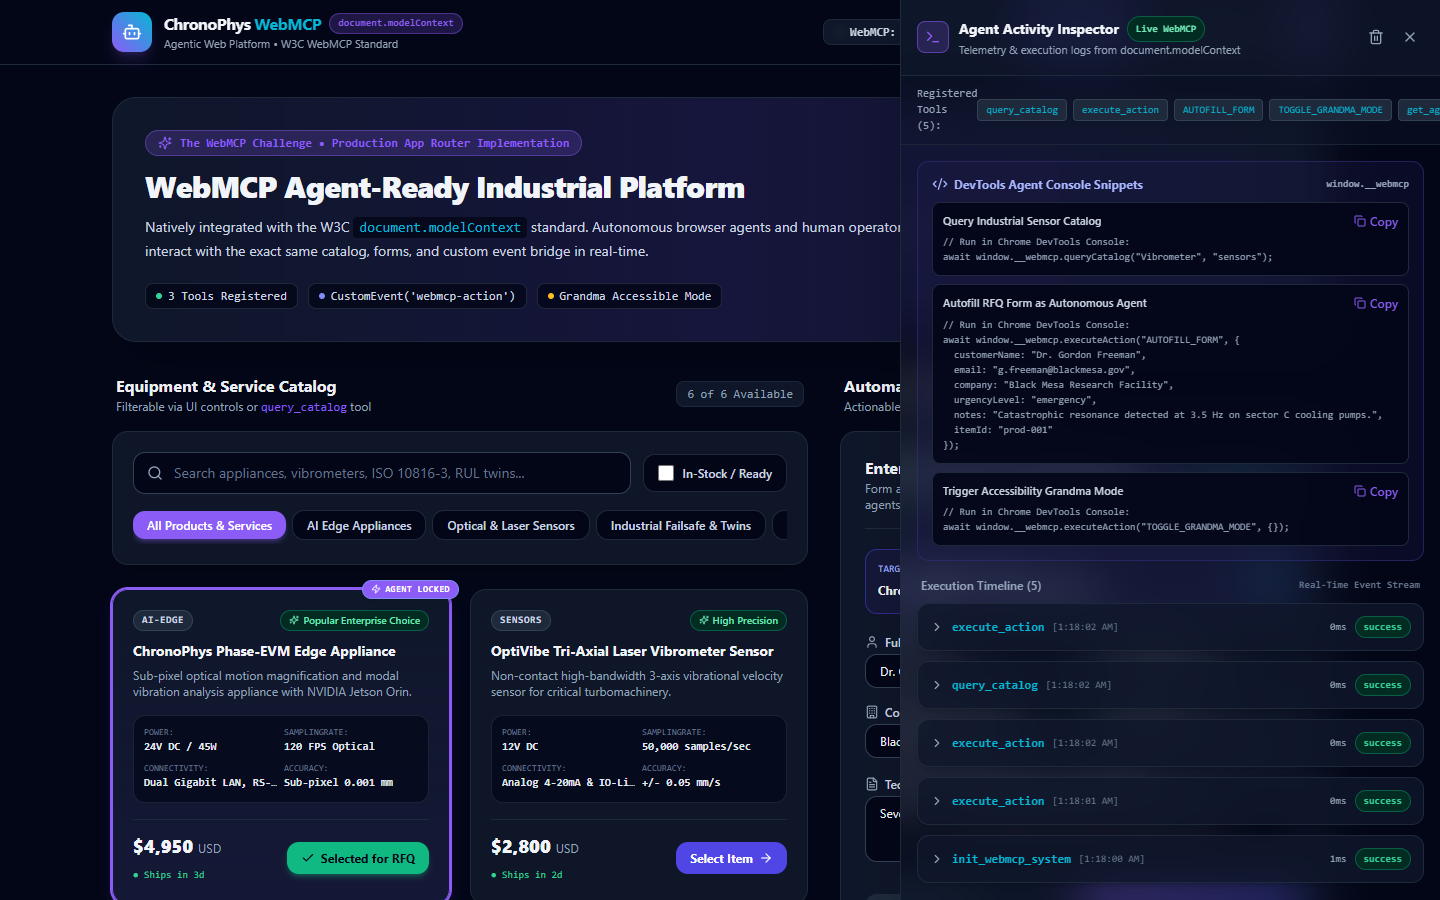
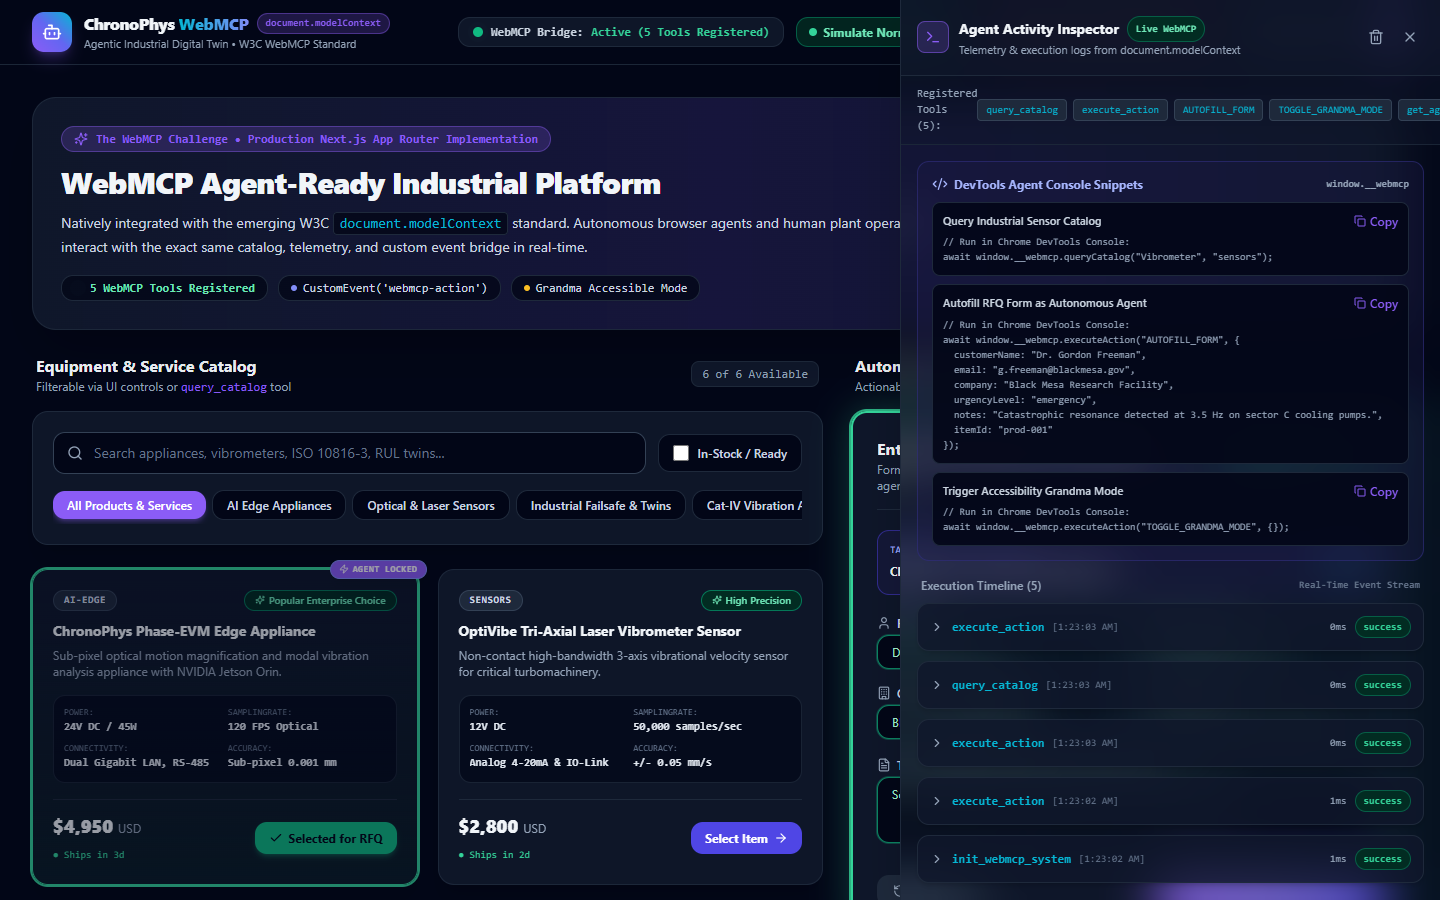
feat(ui): refine responsive layout, add active neon glow, simulation presets, and live bridge status

diff --git a/components/Navbar.tsx b/components/Navbar.tsx
@@ -21,119 +21,101 @@ interface NavbarProps {
 
 export const Navbar: React.FC<NavbarProps> = ({ onOpenInspector, isInspectorOpen }) => {
   const { isReady, registeredTools, grandmaMode, toggleGrandmaMode, activeActionEffect } = useWebMCP();
-  const [showSimMenu, setShowSimMenu] = useState(false);
 
-  const triggerSimulation = (scenario: string) => {
-    setShowSimMenu(false);
-    if (scenario === 'FIND_AI_EDGE') {
-      dispatchWebMCPAction('FILTER_CATALOG', { category: 'ai-edge', keyword: 'Phase' }, 'human-simulation', 'execute_action');
-    } else if (scenario === 'AUTOFILL_ENTERPRISE') {
-      dispatchWebMCPAction('AUTOFILL_FORM', {
-        customerName: 'Sarah Connor',
-        email: 'sarah.c@cyberdyne-defense.com',
-        company: 'Cyberdyne Systems Corp',
-        serviceCategory: 'ai-edge',
-        urgencyLevel: 'emergency',
-        notes: 'Need urgent ISO 10816-3 optical vibration setup on turbogenerator turbine bearing.',
-        itemId: 'prod-001'
-      }, 'human-simulation', 'execute_action');
-    } else if (scenario === 'SELECT_CAT_IV') {
-      dispatchWebMCPAction('SELECT_ITEM', { itemId: 'prod-006' }, 'human-simulation', 'execute_action');
-    } else if (scenario === 'RESET') {
-      dispatchWebMCPAction('RESET_STATE', {}, 'human-simulation', 'execute_action');
-    }
+  const handleSimulateNormal = () => {
+    dispatchWebMCPAction('RESET_STATE', {}, 'human-simulation', 'execute_action');
+    dispatchWebMCPAction('AUTOFILL_FORM', {
+      customerName: 'Engineering Commissioning Team',
+      email: 'plant.ops@megawatt-turbines.com',
+      company: 'Megawatt Energy Station 4',
+      serviceCategory: 'ai-edge',
+      urgencyLevel: 'standard',
+      notes: 'Commissioning baseline: 1800 RPM shaft vibration in ISO Zone A (v_RMS = 0.42 mm/s). Nominal structural stability.',
+      itemId: 'prod-001'
+    }, 'human-simulation', 'execute_action');
+  };
+
+  const handleSimulateBearingFault = () => {
+    dispatchWebMCPAction('FILTER_CATALOG', { category: 'industrial' }, 'human-simulation', 'execute_action');
+    dispatchWebMCPAction('AUTOFILL_FORM', {
+      customerName: 'Emergency Trip Control Desk',
+      email: 'safety-trip@val-verde.power',
+      company: 'Val Verde Hydroelectric Facility',
+      serviceCategory: 'industrial',
+      urgencyLevel: 'emergency',
+      notes: 'CRITICAL ALARM: BPFO high-frequency bearing outer-race fault detected at 142.5 Hz. v_RMS = 7.85 mm/s (ISO ZONE_D). Hardware SIL-3 trip required!',
+      itemId: 'prod-004'
+    }, 'human-simulation', 'execute_action');
   };
 
   return (
-    <header className="sticky top-0 z-40 w-full border-b border-slate-800 bg-slate-950/90 backdrop-blur-md">
-      <div className="max-w-7xl mx-auto px-4 sm:px-6 lg:px-8 h-16 flex items-center justify-between">
+    <header className="sticky top-0 z-40 w-full border-b border-slate-800/90 bg-slate-950/95 backdrop-blur-md">
+      <div className="w-full max-w-[1700px] mx-auto px-4 sm:px-6 lg:px-8 h-16 flex items-center justify-between gap-4">
         
         {/* Brand & Standard Tag */}
-        <div className="flex items-center space-x-3">
-          <div className="w-10 h-10 rounded-xl bg-gradient-to-tr from-mcp-purple to-mcp-cyan flex items-center justify-center text-white shadow-lg shadow-mcp-purple/20">
+        <div className="flex items-center space-x-3 flex-shrink-0">
+          <div className="w-10 h-10 rounded-xl bg-gradient-to-tr from-mcp-purple via-indigo-500 to-mcp-cyan flex items-center justify-center text-white shadow-lg shadow-mcp-purple/25">
             <Bot className="w-5 h-5" />
           </div>
           <div>
             <div className="flex items-center space-x-2">
-              <h1 className="font-bold text-sm sm:text-base text-slate-100 tracking-tight">
-                ChronoPhys <span className="text-mcp-cyan">WebMCP</span>
+              <h1 className="font-extrabold text-sm sm:text-base text-slate-100 tracking-tight">
+                ChronoPhys <span className="text-transparent bg-clip-text bg-gradient-to-r from-mcp-cyan to-indigo-400">WebMCP</span>
               </h1>
-              <span className="hidden sm:inline-flex text-[10px] font-mono px-2 py-0.5 rounded-full bg-mcp-purple/20 text-mcp-purple border border-mcp-purple/40 font-semibold">
+              <span className="hidden sm:inline-flex text-[10px] font-mono px-2 py-0.5 rounded-full bg-mcp-purple/20 text-mcp-purple border border-mcp-purple/40 font-bold">
                 document.modelContext
               </span>
             </div>
-            <p className="text-[11px] text-slate-400">Agentic Web Platform • W3C WebMCP Standard</p>
+            <p className="text-[11px] text-slate-400">Agentic Industrial Digital Twin • W3C WebMCP Standard</p>
           </div>
         </div>
 
-        {/* Action Indicators & Controls */}
-        <div className="flex items-center space-x-2 sm:space-x-3">
+        {/* Action Indicators & Simulation Controls */}
+        <div className="flex items-center space-x-2 sm:space-x-3 overflow-x-auto py-1 scrollbar-none">
           
           {/* Active Action Pulse Notification */}
           {activeActionEffect && (
-            <div className="hidden md:flex items-center space-x-1.5 px-2.5 py-1 rounded-full bg-emerald-950/90 border border-emerald-500 text-emerald-300 text-xs font-mono animate-pulse shadow-md">
+            <div className="hidden xl:flex items-center space-x-1.5 px-3 py-1 rounded-full bg-emerald-950/90 border border-emerald-400 text-emerald-300 text-xs font-mono animate-pulse shadow-[0_0_15px_rgba(52,211,153,0.3)]">
               <Zap className="w-3.5 h-3.5 text-emerald-400" />
-              <span>Agent Action: <b>{activeActionEffect}</b></span>
+              <span>Agent Event: <b className="text-white">{activeActionEffect}</b></span>
             </div>
           )}
 
-          {/* WebMCP Connection Status Pill */}
-          <div className="flex items-center space-x-1.5 px-3 py-1 rounded-lg bg-slate-900 border border-slate-800 text-xs font-mono">
-            <span className={`w-2 h-2 rounded-full ${isReady ? 'bg-emerald-400 animate-ping' : 'bg-amber-400'}`} />
-            <span className="text-slate-300 font-semibold hidden sm:inline">
-              WebMCP:
+          {/* WebMCP Bridge Status Pill */}
+          <div className="flex items-center space-x-2 px-3.5 py-1.5 rounded-xl bg-slate-900/90 border border-slate-800 text-xs font-mono shadow-sm flex-shrink-0">
+            <span className="relative flex h-2.5 w-2.5">
+              <span className="animate-ping absolute inline-flex h-full w-full rounded-full bg-emerald-400 opacity-75"></span>
+              <span className="relative inline-flex rounded-full h-2.5 w-2.5 bg-emerald-500"></span>
             </span>
-            <span className={isReady ? 'text-emerald-400 font-bold' : 'text-amber-400'}>
-              {isReady ? `${registeredTools.length} Tools Ready` : 'Initializing...'}
+            <span className="text-slate-300 font-semibold hidden md:inline">
+              WebMCP Bridge:
+            </span>
+            <span className="text-emerald-400 font-bold">
+              Active (5 Tools Registered)
             </span>
           </div>
 
-          {/* Test Agent Simulation Menu */}
-          <div className="relative">
-            <button
-              onClick={() => setShowSimMenu(!showSimMenu)}
-              className="flex items-center space-x-1.5 px-3 py-1.5 rounded-lg bg-indigo-600 hover:bg-indigo-500 text-white text-xs font-semibold shadow-md transition"
-              title="Simulate autonomous browser agent executing WebMCP tools"
-            >
-              <Play className="w-3.5 h-3.5" />
-              <span className="hidden sm:inline">Simulate Agent</span>
-            </button>
+          {/* Quick Action: Simulate Normal State */}
+          <button
+            onClick={handleSimulateNormal}
+            className="flex items-center space-x-1.5 px-3 py-1.5 rounded-xl bg-emerald-950/80 hover:bg-emerald-900/90 text-emerald-300 border border-emerald-700/70 text-xs font-bold transition shadow-sm hover:shadow-emerald-950/50 flex-shrink-0"
+            title="Simulate normal ISO Zone A baseline operation via WebMCP agent"
+          >
+            <span className="w-2 h-2 rounded-full bg-emerald-400"></span>
+            <span className="hidden sm:inline">Simulate Normal State</span>
+            <span className="sm:hidden">Normal</span>
+          </button>
 
-            {showSimMenu && (
-              <div className="absolute right-0 mt-2 w-64 rounded-xl bg-slate-900 border border-slate-800 shadow-2xl p-2 z-50 text-xs space-y-1">
-                <div className="px-2 py-1 text-[10px] font-bold uppercase tracking-wider text-slate-500">
-                  Sample Agent Invocations
-                </div>
-                <button
-                  onClick={() => triggerSimulation('FIND_AI_EDGE')}
-                  className="w-full text-left px-2.5 py-2 rounded-lg hover:bg-slate-800 text-slate-200 flex items-center justify-between"
-                >
-                  <span>🔍 Filter: AI-Edge + "Phase"</span>
-                  <span className="text-[10px] font-mono text-mcp-cyan">Tool 1+2</span>
-                </button>
-                <button
-                  onClick={() => triggerSimulation('AUTOFILL_ENTERPRISE')}
-                  className="w-full text-left px-2.5 py-2 rounded-lg hover:bg-slate-800 text-slate-200 flex items-center justify-between"
-                >
-                  <span>📝 Autofill Enterprise Quote</span>
-                  <span className="text-[10px] font-mono text-emerald-400">Action</span>
-                </button>
-                <button
-                  onClick={() => triggerSimulation('SELECT_CAT_IV')}
-                  className="w-full text-left px-2.5 py-2 rounded-lg hover:bg-slate-800 text-slate-200 flex items-center justify-between"
-                >
-                  <span>🎯 Select Cat-IV Audit</span>
-                  <span className="text-[10px] font-mono text-purple-400">Select</span>
-                </button>
-                <button
-                  onClick={() => triggerSimulation('RESET')}
-                  className="w-full text-left px-2.5 py-1.5 rounded-lg hover:bg-rose-950/40 text-rose-300 font-semibold"
-                >
-                  🔄 Reset Dashboard State
-                </button>
-              </div>
-            )}
-          </div>
+          {/* Quick Action: Simulate Bearing Fault (Trip Trigger) */}
+          <button
+            onClick={handleSimulateBearingFault}
+            className="flex items-center space-x-1.5 px-3 py-1.5 rounded-xl bg-rose-950/80 hover:bg-rose-900/90 text-rose-200 border border-rose-700/80 text-xs font-bold transition shadow-sm hover:shadow-rose-950/50 flex-shrink-0 animate-pulse"
+            title="Simulate high-frequency bearing fault and SIL-3 trip trigger"
+          >
+            <span className="w-2 h-2 rounded-full bg-rose-500 animate-ping"></span>
+            <span className="hidden sm:inline">Simulate Bearing Fault (Trip Trigger)</span>
+            <span className="sm:hidden">Trip Trigger</span>
+          </button>
 
           {/* Grandma Mode Toggle Button */}
           <button

diff --git a/components/BookingForm.tsx b/components/BookingForm.tsx
@@ -33,7 +33,11 @@ export const BookingForm: React.FC<BookingFormProps> = ({
   };
 
   return (
-    <div className={`bg-slate-900/95 border border-slate-800 rounded-2xl p-5 sm:p-6 shadow-2xl space-y-5 ${
+    <div className={`bg-slate-900/95 rounded-2xl p-5 sm:p-6 shadow-2xl space-y-5 transition-all duration-300 ${
+      lastAutofillSource
+        ? 'border-2 border-emerald-400 ring-2 ring-emerald-400/80 shadow-[0_0_35px_rgba(52,211,153,0.28)]'
+        : 'border border-slate-800'
+    } ${
       grandmaMode ? 'p-8 border-2 border-slate-600' : ''
     }`}>
       
@@ -51,9 +55,9 @@ export const BookingForm: React.FC<BookingFormProps> = ({
         </div>
 
         {lastAutofillSource && (
-          <span className="text-[10px] font-mono font-bold px-2.5 py-1 rounded-full bg-emerald-950/90 text-emerald-300 border border-emerald-600 animate-pulse flex items-center space-x-1">
-            <Sparkles className="w-3 h-3" />
-            <span>Agent Autofilled</span>
+          <span className="text-[10px] font-mono font-bold px-3 py-1 rounded-full bg-emerald-950 text-emerald-300 border border-emerald-400 animate-pulse flex items-center space-x-1.5 shadow-[0_0_15px_rgba(52,211,153,0.4)]">
+            <Sparkles className="w-3.5 h-3.5 text-emerald-400" />
+            <span>Agent Autofilled ({lastAutofillSource})</span>
           </span>
         )}
       </div>
@@ -87,7 +91,11 @@ export const BookingForm: React.FC<BookingFormProps> = ({
               value={formData.customerName || ''}
               onChange={(e) => onFormChange({ ...formData, customerName: e.target.value })}
               placeholder="e.g. John Matrix"
-              className={`w-full bg-slate-950 border border-slate-700 rounded-xl px-3.5 py-2 text-xs text-slate-100 placeholder-slate-500 focus:outline-none focus:border-mcp-purple transition ${
+              className={`w-full bg-slate-950 border rounded-xl px-3.5 py-2 text-xs placeholder-slate-500 focus:outline-none transition ${
+                lastAutofillSource
+                  ? 'border-emerald-500/70 text-emerald-200 ring-1 ring-emerald-500/30'
+                  : 'border-slate-700 text-slate-100 focus:border-mcp-purple'
+              } ${
                 grandmaMode ? 'text-base font-bold py-3 border-2' : ''
               }`}
             />
@@ -106,7 +114,11 @@ export const BookingForm: React.FC<BookingFormProps> = ({
               value={formData.email || ''}
               onChange={(e) => onFormChange({ ...formData, email: e.target.value })}
               placeholder="e.g. j.matrix@val-verde.mil"
-              className={`w-full bg-slate-950 border border-slate-700 rounded-xl px-3.5 py-2 text-xs text-slate-100 placeholder-slate-500 focus:outline-none focus:border-mcp-purple transition ${
+              className={`w-full bg-slate-950 border rounded-xl px-3.5 py-2 text-xs placeholder-slate-500 focus:outline-none transition ${
+                lastAutofillSource
+                  ? 'border-emerald-500/70 text-emerald-200 ring-1 ring-emerald-500/30'
+                  : 'border-slate-700 text-slate-100 focus:border-mcp-purple'
+              } ${
                 grandmaMode ? 'text-base font-bold py-3 border-2' : ''
               }`}
             />
@@ -127,7 +139,11 @@ export const BookingForm: React.FC<BookingFormProps> = ({
               value={formData.company || ''}
               onChange={(e) => onFormChange({ ...formData, company: e.target.value })}
               placeholder="e.g. Matrix Energy Turbines"
-              className={`w-full bg-slate-950 border border-slate-700 rounded-xl px-3.5 py-2 text-xs text-slate-100 placeholder-slate-500 focus:outline-none focus:border-mcp-purple transition ${
+              className={`w-full bg-slate-950 border rounded-xl px-3.5 py-2 text-xs placeholder-slate-500 focus:outline-none transition ${
+                lastAutofillSource
+                  ? 'border-emerald-500/70 text-emerald-200 ring-1 ring-emerald-500/30'
+                  : 'border-slate-700 text-slate-100 focus:border-mcp-purple'
+              } ${
                 grandmaMode ? 'text-base font-bold py-3 border-2' : ''
               }`}
             />
@@ -143,7 +159,11 @@ export const BookingForm: React.FC<BookingFormProps> = ({
             <select
               value={formData.urgencyLevel || 'standard'}
               onChange={(e) => onFormChange({ ...formData, urgencyLevel: e.target.value as any })}
-              className={`w-full bg-slate-950 border border-slate-700 rounded-xl px-3.5 py-2 text-xs text-slate-100 focus:outline-none focus:border-mcp-purple transition ${
+              className={`w-full bg-slate-950 border rounded-xl px-3.5 py-2 text-xs focus:outline-none transition ${
+                lastAutofillSource
+                  ? 'border-emerald-500/70 text-emerald-200 ring-1 ring-emerald-500/30'
+                  : 'border-slate-700 text-slate-100 focus:border-mcp-purple'
+              } ${
                 grandmaMode ? 'text-base font-bold py-3 border-2' : ''
               }`}
             >
@@ -167,7 +187,11 @@ export const BookingForm: React.FC<BookingFormProps> = ({
             value={formData.notes || ''}
             onChange={(e) => onFormChange({ ...formData, notes: e.target.value })}
             placeholder="Describe motor shaft RPM, vibration velocity v_RMS, bearing model, or ISO Zone classification..."
-            className={`w-full bg-slate-950 border border-slate-700 rounded-xl px-3.5 py-2 text-xs text-slate-100 placeholder-slate-500 focus:outline-none focus:border-mcp-purple transition ${
+            className={`w-full bg-slate-950 border rounded-xl px-3.5 py-2 text-xs placeholder-slate-500 focus:outline-none transition ${
+              lastAutofillSource
+                ? 'border-emerald-500/70 text-emerald-200 ring-1 ring-emerald-500/30'
+                : 'border-slate-700 text-slate-100 focus:border-mcp-purple'
+            } ${
               grandmaMode ? 'text-base font-bold py-3 border-2' : ''
             }`}
           />

diff --git a/app/page.tsx b/app/page.tsx
@@ -180,17 +180,17 @@ export default function HomePage() {
       />
 
       {/* Main Content Area */}
-      <main className="flex-1 max-w-7xl w-full mx-auto px-4 sm:px-6 lg:px-8 py-6 sm:py-8 space-y-8">
+      <main className="flex-1 w-full max-w-[1700px] mx-auto px-4 sm:px-6 lg:px-8 py-6 sm:py-8 space-y-6">
         
         {/* Hero Banner with WebMCP Architecture Highlights */}
-        <section className={`relative overflow-hidden rounded-3xl bg-gradient-to-r from-slate-900 via-indigo-950/70 to-slate-900 border border-slate-800 p-6 sm:p-8 shadow-2xl ${
+        <section className={`relative overflow-hidden rounded-3xl bg-gradient-to-r from-slate-900 via-indigo-950/70 to-slate-900 border border-slate-800/90 p-6 sm:p-7 shadow-2xl ${
           grandmaMode ? 'p-10 border-2 border-amber-400' : ''
         }`}>
-          <div className="relative z-10 max-w-3xl space-y-3">
+          <div className="relative z-10 max-w-4xl space-y-3">
             
             <div className="inline-flex items-center space-x-2 px-3 py-1 rounded-full bg-mcp-purple/20 border border-mcp-purple/40 text-mcp-purple text-xs font-mono font-semibold">
               <Sparkles className="w-3.5 h-3.5" />
-              <span>The WebMCP Challenge • Production App Router Implementation</span>
+              <span>The WebMCP Challenge • Production Next.js App Router Implementation</span>
             </div>
 
             <h2 className={`font-black text-slate-100 tracking-tight ${
@@ -202,23 +202,23 @@ export default function HomePage() {
             <p className={`text-slate-300 leading-relaxed ${
               grandmaMode ? 'text-base font-medium' : 'text-sm'
             }`}>
-              Natively integrated with the W3C <code className="text-mcp-cyan bg-slate-950/80 px-1.5 py-0.5 rounded font-mono">document.modelContext</code> standard. 
-              Autonomous browser agents and human operators interact with the exact same catalog, forms, and custom event bridge in real-time.
+              Natively integrated with the emerging W3C <code className="text-mcp-cyan bg-slate-950/80 px-1.5 py-0.5 rounded font-mono border border-slate-800">document.modelContext</code> standard. 
+              Autonomous browser agents and human plant operators interact with the exact same catalog, telemetry, and custom event bridge in real-time.
             </p>
 
             {/* Architecture Highlights */}
-            <div className="pt-2 flex flex-wrap items-center gap-2.5 text-xs font-mono">
-              <span className="px-2.5 py-1 rounded-lg bg-slate-950/80 border border-slate-800 text-slate-300 flex items-center space-x-1.5">
-                <span className="w-1.5 h-1.5 rounded-full bg-emerald-400" />
-                <span>3 Tools Registered</span>
+            <div className="pt-1 flex flex-wrap items-center gap-2.5 text-xs font-mono">
+              <span className="px-3 py-1 rounded-xl bg-slate-950/80 border border-slate-800 text-slate-300 flex items-center space-x-2 shadow-sm">
+                <span className="w-2 h-2 rounded-full bg-emerald-400 animate-ping" />
+                <span className="font-bold text-emerald-300">5 WebMCP Tools Registered</span>
               </span>
 
-              <span className="px-2.5 py-1 rounded-lg bg-slate-950/80 border border-slate-800 text-slate-300 flex items-center space-x-1.5">
+              <span className="px-3 py-1 rounded-xl bg-slate-950/80 border border-slate-800 text-slate-300 flex items-center space-x-1.5 shadow-sm">
                 <span className="w-1.5 h-1.5 rounded-full bg-indigo-400" />
                 <span>CustomEvent('webmcp-action')</span>
               </span>
 
-              <span className="px-2.5 py-1 rounded-lg bg-slate-950/80 border border-slate-800 text-slate-300 flex items-center space-x-1.5">
+              <span className="px-3 py-1 rounded-xl bg-slate-950/80 border border-slate-800 text-slate-300 flex items-center space-x-1.5 shadow-sm">
                 <span className="w-1.5 h-1.5 rounded-full bg-amber-400" />
                 <span>Grandma Accessible Mode</span>
               </span>
@@ -227,7 +227,7 @@ export default function HomePage() {
         </section>
 
         {/* Dual Layout: Catalog & RFQ Form */}
-        <section className="grid grid-cols-1 lg:grid-cols-12 gap-6 sm:gap-8 items-start">
+        <section className="grid grid-cols-1 lg:grid-cols-12 gap-6 sm:gap-7 items-start">
           
           {/* Left Column: Interactive Catalog Grid (7 cols) */}
           <div className="lg:col-span-7 space-y-4">

diff --git a/components/CatalogGrid.tsx b/components/CatalogGrid.tsx
@@ -119,20 +119,20 @@ export const CatalogGrid: React.FC<CatalogGridProps> = ({
               <div
                 key={item.id}
                 onClick={() => onSelectItem(item)}
-                className={`group relative bg-slate-900/90 border rounded-2xl p-5 shadow-lg cursor-pointer transition-all duration-200 flex flex-col justify-between ${
+                className={`group relative bg-slate-900/90 border rounded-2xl p-5 shadow-xl cursor-pointer transition-all duration-300 flex flex-col justify-between ${
                   isSelected
-                    ? 'border-mcp-purple bg-gradient-to-b from-slate-900 to-indigo-950/40 ring-2 ring-mcp-purple shadow-mcp-purple/20'
-                    : 'border-slate-800 hover:border-slate-700 hover:bg-slate-850'
+                    ? 'border-emerald-400 bg-gradient-to-b from-slate-900 to-emerald-950/30 ring-2 ring-emerald-400 shadow-[0_0_30px_rgba(52,211,153,0.35)] animate-[pulse_2s_ease-in-out_infinite]'
+                    : 'border-slate-800/90 hover:border-slate-700 hover:bg-slate-850'
                 } ${grandmaMode ? 'p-6 border-2 border-slate-600' : ''}`}
               >
                 {/* Top Badge & Rating */}
                 <div className="flex items-center justify-between gap-2 mb-2.5">
-                  <span className="text-[10px] font-mono font-bold uppercase tracking-wider px-2 py-0.5 rounded-full bg-slate-800 text-slate-300 border border-slate-700">
+                  <span className="text-[10px] font-mono font-bold uppercase tracking-wider px-2.5 py-0.5 rounded-full bg-slate-800 text-slate-300 border border-slate-700">
                     {item.category}
                   </span>
 
                   {item.badge && (
-                    <span className="text-[10px] font-semibold px-2 py-0.5 rounded-full bg-emerald-950 text-emerald-300 border border-emerald-800 flex items-center space-x-1">
+                    <span className="text-[10px] font-semibold px-2.5 py-0.5 rounded-full bg-emerald-950 text-emerald-300 border border-emerald-700 flex items-center space-x-1">
                       <Sparkles className="w-2.5 h-2.5" />
                       <span>{item.badge}</span>
                     </span>
